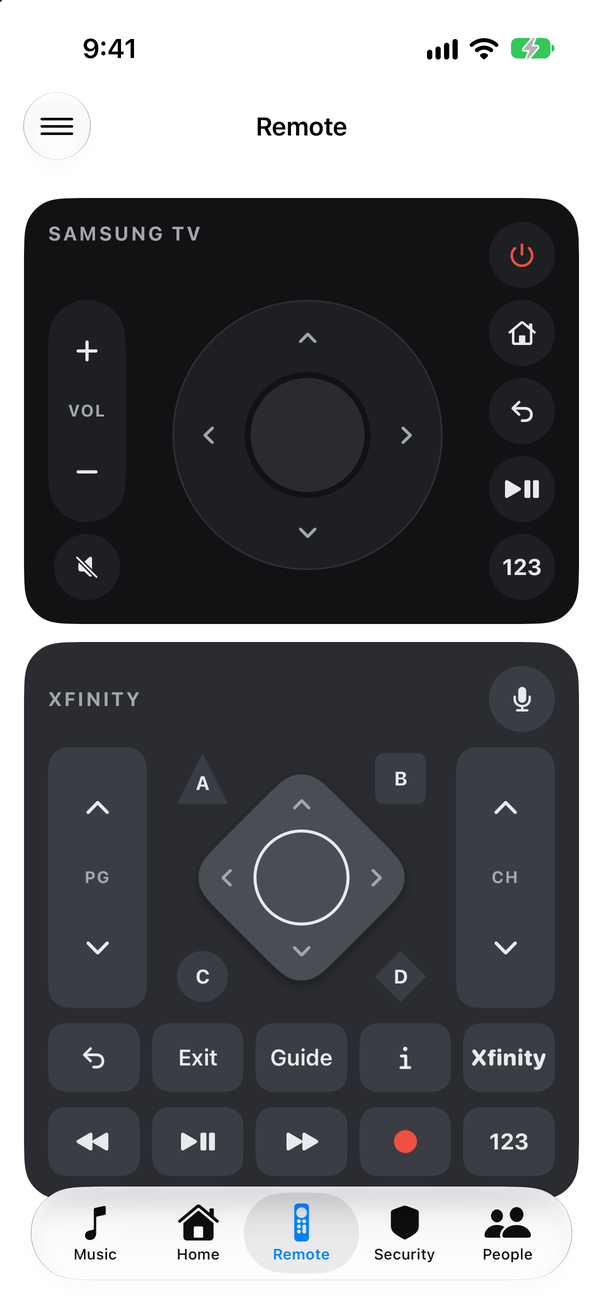
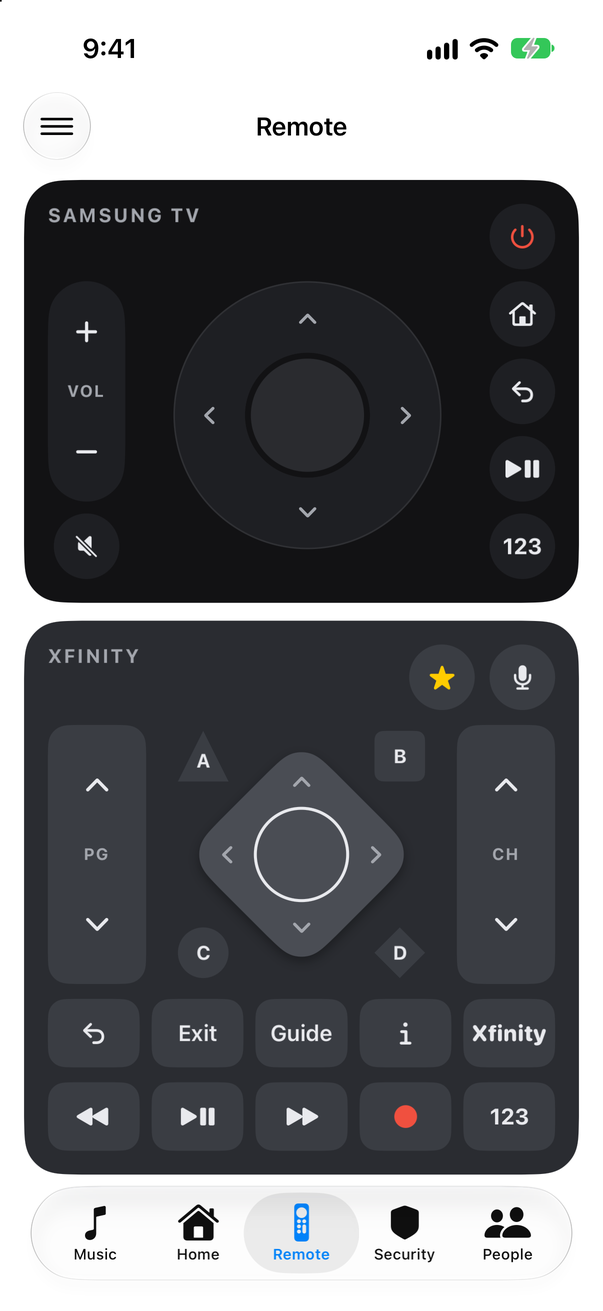
Saved voice commands on a ★ key beside the Xfinity mic (#4)
* Saved voice commands: hold the Xfinity voice key

A box's favorites ({ name, say, icon }) appear in a menu when the voice
key is held; a tap still listens. Each is sent as if spoken. Only an
xfinity box offers them.

Also fixes two names the publish scrub mangled in the configuration
guide: the xfinity_remote link and the last-known-good settings key.

* Favorites get their own ★ key beside the mic

Holding the mic for a menu wasn't discoverable. The ★ key, shown when the
box has favorites, opens them on a tap; the mic only listens. The demo
remote gets two favorites so the screenshot shows it.

* Less space above a page's first card, so the remote fits

* Put the Xfinity panel's name where the TV panel's is

* A page that's only a remote fits the screen instead of scrolling

It's laid out at its natural height and, on a phone too short for it,
scaled down evenly to fit. It stays in a scroll view for pull-to-refresh,
with nothing to scroll.

* testflight.sh: sign in with an App Store Connect API key when given one

---------

diff --git a/Hassonic/TVRemoteCard.swift b/Hassonic/TVRemoteCard.swift
@@ -48,7 +48,9 @@ struct TVRemoteCardView: View {
                          voice: configuration.boxTakesVoice ? BoxPanel.Voice(
                             isListening: voice.state == .listening,
                             caption: voice.state == .listening ? (voice.transcript.isEmpty ? "Listening…" : voice.transcript) : voiceNote,
-                            toggle: toggleVoice
+                            favorites: configuration.voiceFavorites,
+                            toggle: toggleVoice,
+                            send: sendVoice
                          ) : nil,
                          press: { press($0, on: .box) }, showKeypad: { keypad = .box })
                     .disabled(boxIsIdle)
@@ -114,11 +116,7 @@ struct TVRemoteCardView: View {
         }
         voiceNote = nil
         Task {
-            await voice.start { command in
-                presses += 1
-                perform(configuration.voiceActions(command))
-                voiceNote = "“\(command)”"
-            }
+            await voice.start { command in sendVoice(command) }
             switch voice.state {
             case .denied: voiceNote = "Turn on the microphone and speech recognition in Settings"
             case .unavailable: voiceNote = "Voice isn't available right now"
@@ -126,6 +124,13 @@ struct TVRemoteCardView: View {
             }
             voice.reset()
         }
+    }
+
+    /// Sends a command to the box as if it had been spoken.
+    private func sendVoice(_ command: String) {
+        presses += 1
+        perform(configuration.voiceActions(command))
+        voiceNote = "“\(command)”"
     }
 
     private func press(_ key: TVRemoteKey, on side: TVRemoteSide) {
@@ -304,7 +309,10 @@ private struct BoxPanel: View {
         let isListening: Bool
         /// "Listening…", the words so far, or the command just sent.
         let caption: String?
+        /// Saved commands, offered by the favorites key.
+        let favorites: [DashboardTVRemoteConfiguration.VoiceFavorite]
         let toggle: () -> Void
+        let send: (String) -> Void
     }
 
     let name: String
@@ -316,7 +324,8 @@ private struct BoxPanel: View {
 
     var body: some View {
         VStack(alignment: .leading, spacing: 10) {
-            HStack(alignment: .center, spacing: 10) {
+            // Top-aligned, so the name sits where the TV panel's does.
+            HStack(alignment: .top, spacing: 10) {
                 VStack(alignment: .leading, spacing: 3) {
                     PanelCaption(name)
                     if let caption = voice?.caption {
@@ -329,6 +338,9 @@ private struct BoxPanel: View {
                 }
                 Spacer(minLength: 0)
                 if let voice {
+                    if !voice.favorites.isEmpty {
+                        FavoritesKey(favorites: voice.favorites, send: voice.send)
+                    }
                     MicKey(isListening: voice.isListening, action: voice.toggle)
                 }
             }
@@ -422,6 +434,37 @@ private struct MicKey: View {
         }
         .accessibilityLabel(isListening ? "Stop listening" : "Voice command")
         .accessibilityHint(isListening ? "Sends what you've said" : "Say what you'd say into the voice remote, like watch ESPN")
+    }
+}
+
+/// The favorites key: a menu of saved voice commands, each sent as if
+/// spoken.
+private struct FavoritesKey: View {
+    let favorites: [DashboardTVRemoteConfiguration.VoiceFavorite]
+    let send: (String) -> Void
+
+    var body: some View {
+        Menu {
+            ForEach(favorites) { favorite in
+                Button { send(favorite.say) } label: {
+                    if let icon = favorite.icon {
+                        Label(favorite.name, systemImage: icon)
+                    } else {
+                        Text(favorite.name)
+                    }
+                }
+            }
+        } label: {
+            Image(systemName: "star.fill")
+                .font(.subheadline.weight(.semibold))
+                .foregroundStyle(Color.yellow)
+                .frame(width: 44, height: 44)
+                .background(RemoteColors.boxKey, in: Circle())
+        }
+        .menuStyle(.button)
+        .buttonStyle(PressScaleButtonStyle())
+        .accessibilityLabel("Favorites")
+        .accessibilityHint("Saved voice commands")
     }
 }
 

diff --git a/Hassonic/DashboardView.swift b/Hassonic/DashboardView.swift
@@ -24,22 +24,47 @@ struct DashboardPageView: View {
         }
     }
 
+    @ViewBuilder private var cards: some View {
+        if let errorMessage = configurationLoader.errorMessage {
+            DashboardConfigurationErrorBanner(message: errorMessage)
+        }
+
+        if !rooms.isEmpty {
+            RoomsStrip(rooms: rooms)
+        }
+
+        ForEach(Array(page.sections.enumerated()), id: \.offset) { _, section in
+            DashboardSectionView(section: section)
+        }
+    }
+
+    /// A page of nothing but remotes is a remote: it fits the screen, shrunk
+    /// as needed on a smaller phone, rather than scrolling.
+    private var fitsScreen: Bool {
+        let cards = page.sections.flatMap(\.cards)
+        return rooms.isEmpty && !cards.isEmpty && cards.allSatisfy {
+            if case .tvRemote = $0 { return true } else { return false }
+        }
+    }
+
     private var content: some View {
         ScrollView {
-            LazyVStack(alignment: .leading, spacing: 16) {
-                if let errorMessage = configurationLoader.errorMessage {
-                    DashboardConfigurationErrorBanner(message: errorMessage)
+            if fitsScreen {
+                // Still in a scroll view, for pull-to-refresh; it never has
+                // anything to scroll.
+                ShrinkToFit {
+                    VStack(alignment: .leading, spacing: 16) { cards }
+                        .padding(.top, 4)
+                        .padding(.bottom, 8)
                 }
-
-                if !rooms.isEmpty {
-                    RoomsStrip(rooms: rooms)
+                .containerRelativeFrame(.vertical)
+            } else {
+                LazyVStack(alignment: .leading, spacing: 16) {
+                    cards
                 }
-
-                ForEach(Array(page.sections.enumerated()), id: \.offset) { _, section in
-                    DashboardSectionView(section: section)
-                }
+                .padding(.top, 4)
+                .padding(.bottom)
             }
-            .padding(.vertical)
         }
         .reloadsConfigurationOnPull()
         .navigationTitle(page.title)
@@ -54,6 +79,29 @@ struct DashboardPageView: View {
             if let room = rooms.first(where: { $0.id == roomID }) {
                 DashboardPageView(page: room, isPushed: true)
             }
+        }
+    }
+}
+
+/// Lays its content out at its natural height and scales the whole thing
+/// down, evenly, when that's taller than the space it has. Full width either
+/// way: it's laid out wider by the same factor it's shrunk by.
+private struct ShrinkToFit<Content: View>: View {
+    @ViewBuilder let content: Content
+
+    @State private var naturalHeight: CGFloat = 0
+
+    var body: some View {
+        GeometryReader { proxy in
+            let scale = naturalHeight > proxy.size.height && naturalHeight > 0
+                ? proxy.size.height / naturalHeight
+                : 1
+            content
+                .frame(width: proxy.size.width / scale)
+                .fixedSize(horizontal: false, vertical: true)
+                .onGeometryChange(for: CGFloat.self) { $0.size.height } action: { naturalHeight = $0 }
+                .scaleEffect(scale, anchor: .top)
+                .frame(width: proxy.size.width, height: proxy.size.height, alignment: .top)
         }
     }
 }

diff --git a/Hassonic/TVRemote.swift b/Hassonic/TVRemote.swift
@@ -205,8 +205,22 @@ struct DashboardTVRemoteConfiguration: Decodable, Equatable {
         /// power command, e.g. one that blasts IR to turn on a TV whose
         /// network remote is asleep while it's off.
         var power: String?
+        /// Saved spoken commands for a box that takes them, offered by its
+        /// favorites key: `{ name: ESPN, say: "watch ESPN" }`.
+        var favorites: [VoiceFavorite]?
 
         var displayName: String { name ?? kind.displayName }
+    }
+
+    /// A command you'd otherwise say, saved under a short name.
+    struct VoiceFavorite: Decodable, Equatable, Identifiable {
+        let name: String
+        /// Sent as if spoken into the voice remote.
+        let say: String
+        /// An SF Symbol beside the name in the menu.
+        var icon: String?
+
+        var id: String { name }
     }
 
     let title: String?
@@ -226,6 +240,12 @@ struct DashboardTVRemoteConfiguration: Decodable, Equatable {
     /// Whether the box takes spoken commands: an Xfinity box does, through
     /// its integration's `send_text`.
     var boxTakesVoice: Bool { box?.kind == .xfinity }
+
+    /// The saved commands the favorites key offers; none for a box that
+    /// can't take them.
+    var voiceFavorites: [VoiceFavorite] {
+        boxTakesVoice ? (box?.favorites ?? []).filter { !$0.name.isEmpty && !$0.say.isEmpty } : []
+    }
 
     /// A spoken command for the box, sent as the words themselves.
     func voiceActions(_ text: String) -> [TVRemoteAction] {

diff --git a/HassonicTests/TVRemoteTests.swift b/HassonicTests/TVRemoteTests.swift
@@ -203,6 +203,28 @@ final class TVRemoteTests: XCTestCase {
         XCTAssertEqual(remote.voiceActions("   "), [])
     }
 
+    func testSavedVoiceCommandsComeFromTheBox() throws {
+        let remote = try card("""
+                    box:
+                      kind: xfinity
+                      remote: remote.xfinity
+                      favorites:
+                        - { name: ESPN, say: "watch ESPN", icon: sportscourt.fill }
+                        - { name: Kids, say: "show me kids movies" }
+                        - { name: Blank, say: "" }
+        """)
+        XCTAssertEqual(remote.voiceFavorites.map(\.name), ["ESPN", "Kids"])
+        XCTAssertEqual(remote.voiceFavorites.first?.icon, "sportscourt.fill")
+        XCTAssertEqual(remote.voiceActions(remote.voiceFavorites[1].say), [.sendText(remote: "remote.xfinity", text: "show me kids movies")])
+    }
+
+    func testOnlyAnXfinityBoxOffersSavedCommands() throws {
+        let remote = try card("""
+                    box: { kind: samsung, remote: remote.tv, favorites: [{ name: ESPN, say: "watch ESPN" }] }
+        """)
+        XCTAssertEqual(remote.voiceFavorites, [])
+    }
+
     func testNoBoxMeansNoVoice() throws {
         let remote = try card("""
                     tv: { kind: samsung, remote: remote.tv }

diff --git a/docs/configuration.md b/docs/configuration.md
@@ -129,20 +129,29 @@ must be an SF Symbols name.
   box:
     kind: xfinity
     remote: remote.xfinity
+    favorites:                       # the ★ key's menu
+      - { name: ESPN, say: "watch ESPN", icon: sportscourt.fill }
+      - { name: Kids movies, say: "show me kids movies" }
 ```
 
 | Field | Meaning |
 |---|---|
-| `kind` | `samsung` (the [SamsungTV Smart](https://github.com/ollo69/ha-samsungtv-smart) custom integration, or HA's built-in [Samsung Smart TV](https://www.home-assistant.io/integrations/samsungtv) one; both take the same key codes) or `xfinity` (the [xfinity_remote](https://github.com/jeffsterling/hass-xfinityremote) custom integration). It decides how each key is spelled in `remote.send_command`. |
+| `kind` | `samsung` (the [SamsungTV Smart](https://github.com/ollo69/ha-samsungtv-smart) custom integration, or HA's built-in [Samsung Smart TV](https://www.home-assistant.io/integrations/samsungtv) one; both take the same key codes) or `xfinity` (the [xfinity_remote](https://github.com/JeffSteinbok/hass-xfinityremote) custom integration). It decides how each key is spelled in `remote.send_command`. |
 | `remote` | That integration's `remote.*` entity. |
 | `mediaPlayer` | Optional. For Samsung, play/pause toggles through it; without one the key alternates pause and play. |
 | `name` | Optional; the panel's label. Defaults to "Samsung TV" or "Xfinity". |
 | `power` | Optional `script.*` the power key runs instead of sending the device's own power command. For a Samsung, whose network remote can turn it off but not on, point it at a script that sends the TV's IR power code through an IR blaster such as a Broadlink. |
+| `favorites` | Optional, `xfinity` only. Saved voice commands, offered by the ★ key beside the box panel's voice key: each a `name` for the menu, what to `say`, and an optional SF Symbol `icon`. |
 
 Each device gets its own panel and its keys always go to that device: the `tv`
 panel is drawn like the Samsung remote, the `box` panel like the X1. Either can
 be left out. The 123 key opens a number pad for that device whose digits send as
 you tap them, with Last (previous channel) and Enter.
+
+An `xfinity` box panel has a voice key. Tap it and say what you'd say into the
+box's own voice remote ("watch ESPN", "show me comedies"); the words go to the
+box through the integration's `xfinity_remote.send_text` once you stop talking.
+With `favorites`, a ★ key beside it opens a menu of them.
 
 Each card type is written for one kind of entity or integration: `light`, `cover`,
 `alarm` and `people` work with any entity of their domain, while
@@ -324,7 +333,7 @@ scripts/inject_config.py --clear                   # drop back to Home Assistant
 This writes `Documents/config-override.yaml` into the simulator's app container.
 **Debug builds read that file instead of fetching from Home Assistant** and keep using
 it across reconnects.
-Release builds ignore it entirely. Writing the `sterlinghome.dashboard.lastKnownGoodYAML`
+Release builds ignore it entirely. Writing the `hassonic.dashboard.lastKnownGoodYAML`
 default directly also works, but the next successful fetch overwrites it, so the override
 file is the one that sticks.
 
